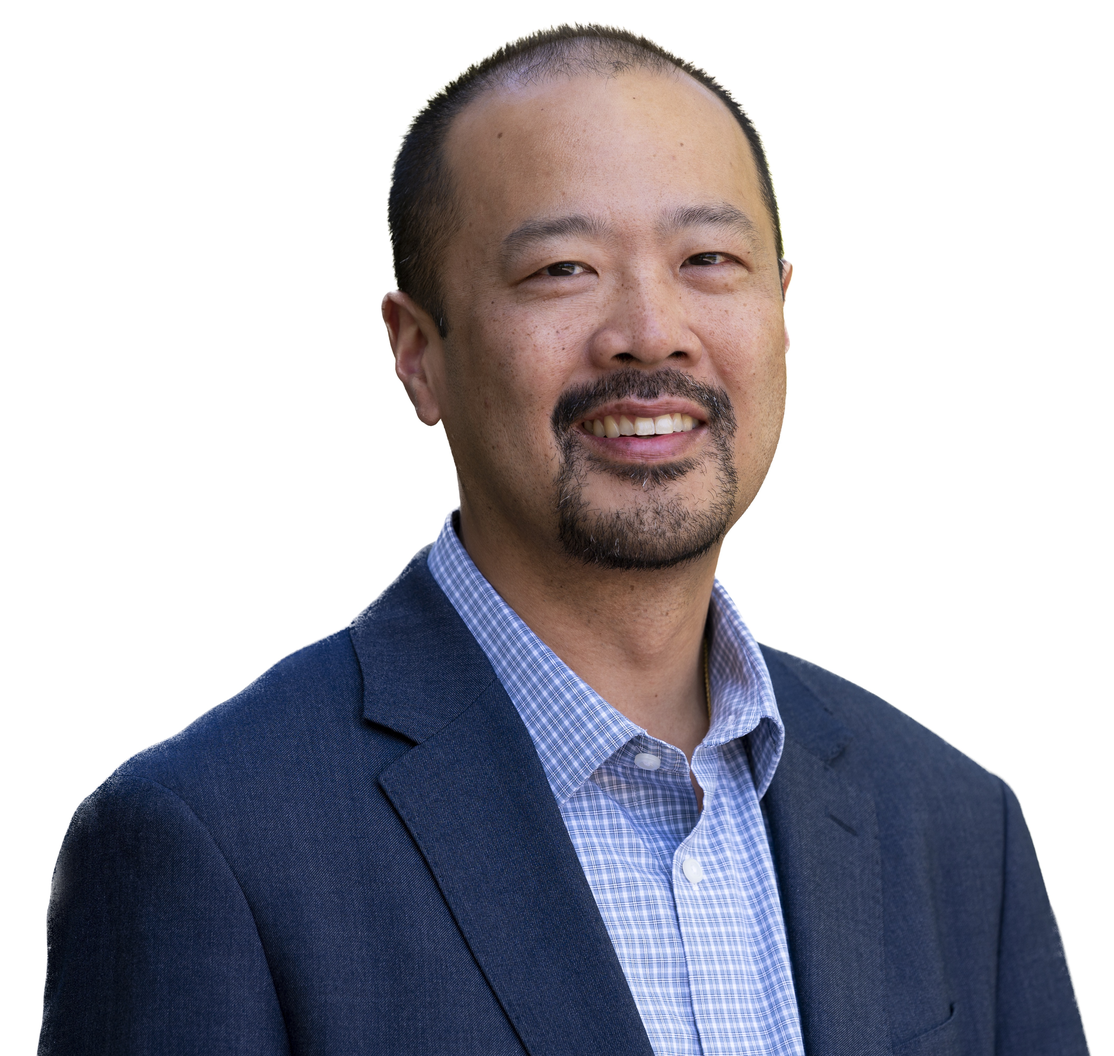
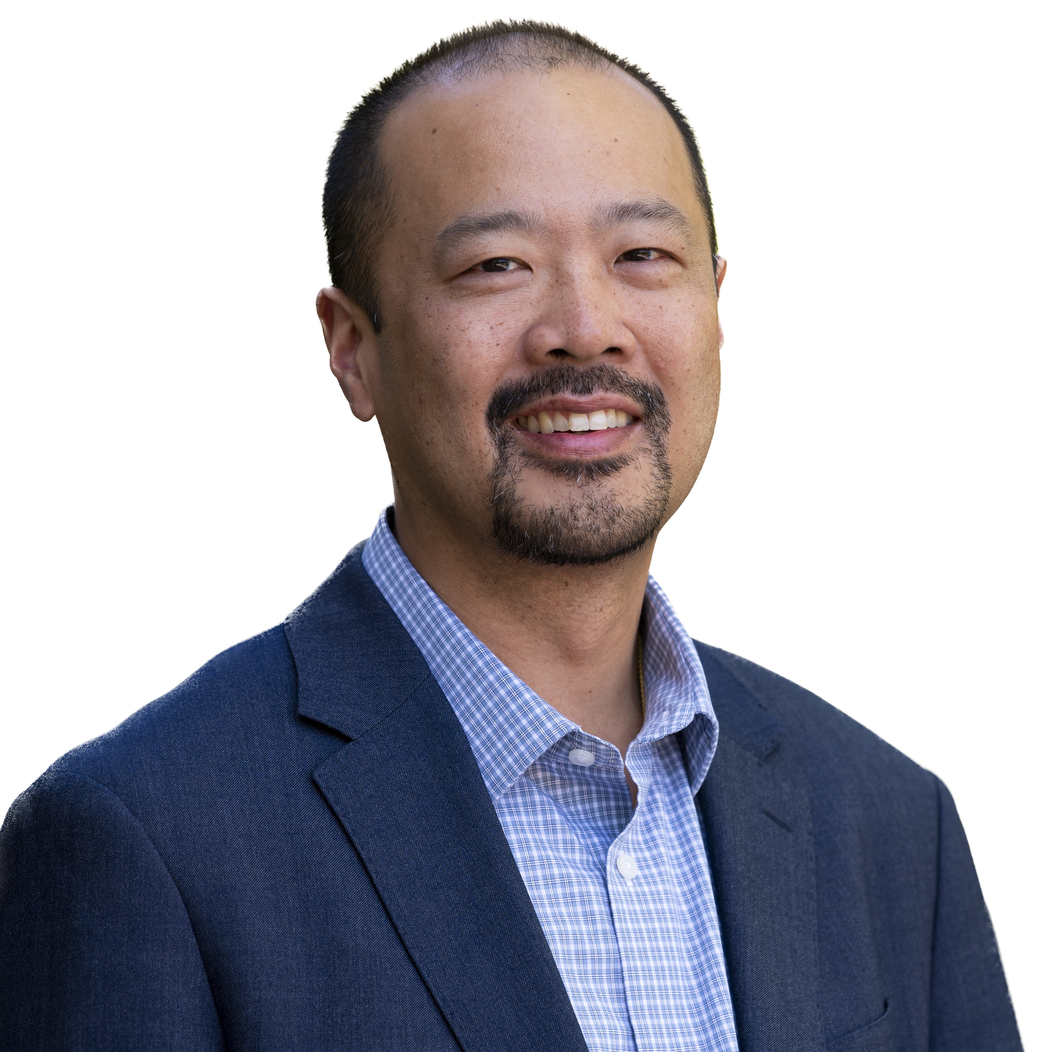
Update CV, picture

diff --git a/_pages/about.md b/_pages/about.md
@@ -8,19 +8,19 @@ profile:
   align: right
   image: prof_pic.jpg
   image_circular: true # crops the image to make it circular
-  more_info: >
-    # <p>University of Pittsburgh</p>
-    # <p>Pittsburgh, PA</p>
+  # more_info: >
+  #   <p>University of Pittsburgh</p>
+  #   <p>Pittsburgh, PA</p>
 
 
-news: true  # includes a list of news items
-latest_posts: true  # includes a list of the newest posts
+news: false  # includes a list of news items
+latest_posts: false  # includes a list of the newest posts
 selected_papers: true # includes a list of papers marked as "selected={true}"
 social: true  # includes social icons at the bottom of the page
 ---
 
-Write your biography here. Tell the world about yourself. Link to your favorite [subreddit](http://reddit.com). You can put a picture in, too. The code is already in, just name your picture `prof_pic.jpg` and put it in the `img/` folder.
+<!-- Write your biography here. Tell the world about yourself. Link to your favorite [subreddit](http://reddit.com). You can put a picture in, too. The code is already in, just name your picture `prof_pic.jpg` and put it in the `img/` folder.
 
 Put your address / P.O. box / other info right below your picture. You can also disable any of these elements by editing `profile` property of the YAML header of your `_pages/about.md`. Edit `_bibliography/papers.bib` and Jekyll will render your [publications page](/al-folio/publications/) automatically.
 
-Link to your social media connections, too. This theme is set up to use [Font Awesome icons](https://fontawesome.com/) and [Academicons](https://jpswalsh.github.io/academicons/), like the ones below. Add your Facebook, Twitter, LinkedIn, Google Scholar, or just disable all of them.
+Link to your social media connections, too. This theme is set up to use [Font Awesome icons](https://fontawesome.com/) and [Academicons](https://jpswalsh.github.io/academicons/), like the ones below. Add your Facebook, Twitter, LinkedIn, Google Scholar, or just disable all of them. -->
